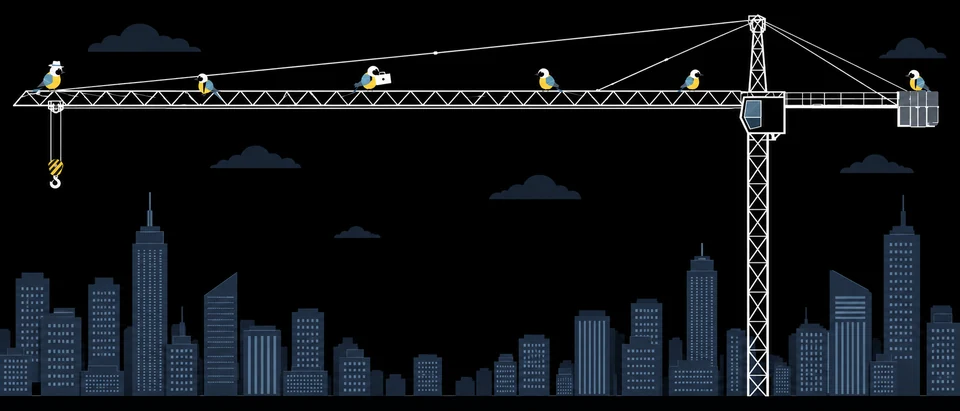
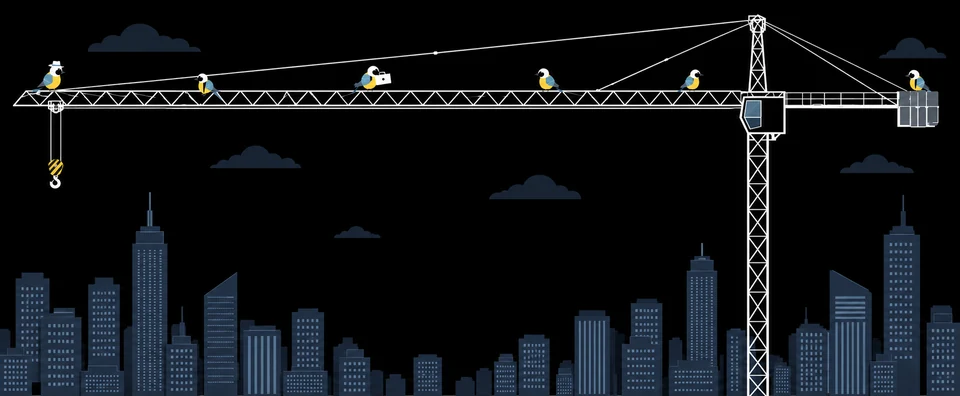
Crop dark strip from inverted crane images
Remove the 30px strip below the skyline when generating web variants, keeping the source PNG unchanged.

diff --git a/scripts/optimize-images.py b/scripts/optimize-images.py
@@ -6,6 +6,10 @@ root = Path(__file__).resolve().parents[1] / 'public' / 'images'
 for stem in ['crane', 'crane-inverted', 'crane-portrait', 'crane-portrait-inverted',
              'menu-hero', 'menu-hero-inverted', 'score-back', 'score-back-inverted']:
     image = Image.open(root / f'{stem}.png').convert('RGBA')
+    if stem == 'crane-inverted':
+        # The landscape night original has a 30px dark strip below the skyline.
+        # Keep the source PNG intact and remove the strip from web variants only.
+        image = image.crop((0, 0, image.width, image.height - 30))
     # Preserve score artwork pixels/alpha exactly for canvas rendering/export.
     image.save(root / f'{stem}.webp', lossless=stem.startswith('score-back'), exact=True, quality=88, method=6)
     if not stem.startswith('score-back'):
